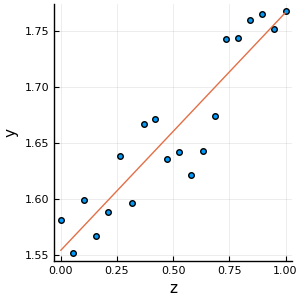
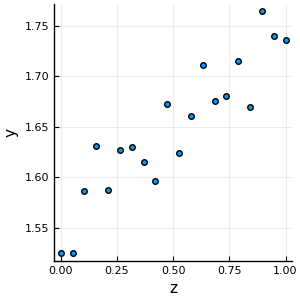
Linear least squares

diff --git a/docs/notes/Least_squares.md b/docs/notes/Least_squares.md
@@ -4,12 +4,42 @@ In this lecture, we will cover least squares for data fitting, linear systems, p
 
 ## **Least squares for data fitting**
 
-Consider the problem of fitting a line to observations $y_i$ gven input $z_i,\ i = 1,\dots, n$.
+Consider the problem of fitting a line to observations $y_i$ gven input $z_i$ for $i = 1,\dots, n$. 
+
+![](figures/Least_squares_1_1.png)
+
+
+
+In the figure above, the data points seem to follow a linear trend. One way to find the parameters $c,s \in \R$ of the linear 
+model $f(z) = s\cdot z + c$ that coresponds to a line of best fit is to minimize the following squared distance subject to a 
+linear constraint:
+
+$$
+\begin{align*}
+\min_{s,c \in \R} &\sum_{i=1}^n (y_i - \hat{y}_i)^2\\
+ \text{subject to } &s\cdot z_i+c = \hat{y}_i
+\end{align*}
+$$
+
+The above minimization program can be reformulated as a linear least squares problem:
+
+$$
+\min_{\vx} \|\mA \vx - \vb\|_2^2 = \sum_{i=1}^n(\va_{i}^\intercal\vx-b_i)^2
+$$
+
+where,
+
+$$
+\mA = \begin{bmatrix}z_1 & 1\\ z_2 & 1\\ \vdots&\vdots\\z_n & 1\end{bmatrix}, \ \vb = \begin{bmatrix}y_1\\y_2\\\vdots
+\\y_n\end{bmatrix}, \text{ and } \vx = \begin{bmatrix}s\\c\end{bmatrix}.
+$$
+
+
 
 
 
 <center>
-![](figures/Least_squares_2_1.png)
+![](figures/Least_squares_3_1.png)
 
 
 </center>
@@ -112,7 +142,7 @@ plot(ws, h_db,
 ````
 
 
-![](figures/Least_squares_6_1.png)
+![](figures/Least_squares_7_1.png)
 
 
 
@@ -125,4 +155,4 @@ plot(ws, h_phase,
 ````
 
 
-![](figures/Least_squares_7_1.png)
+![](figures/Least_squares_8_1.png)
